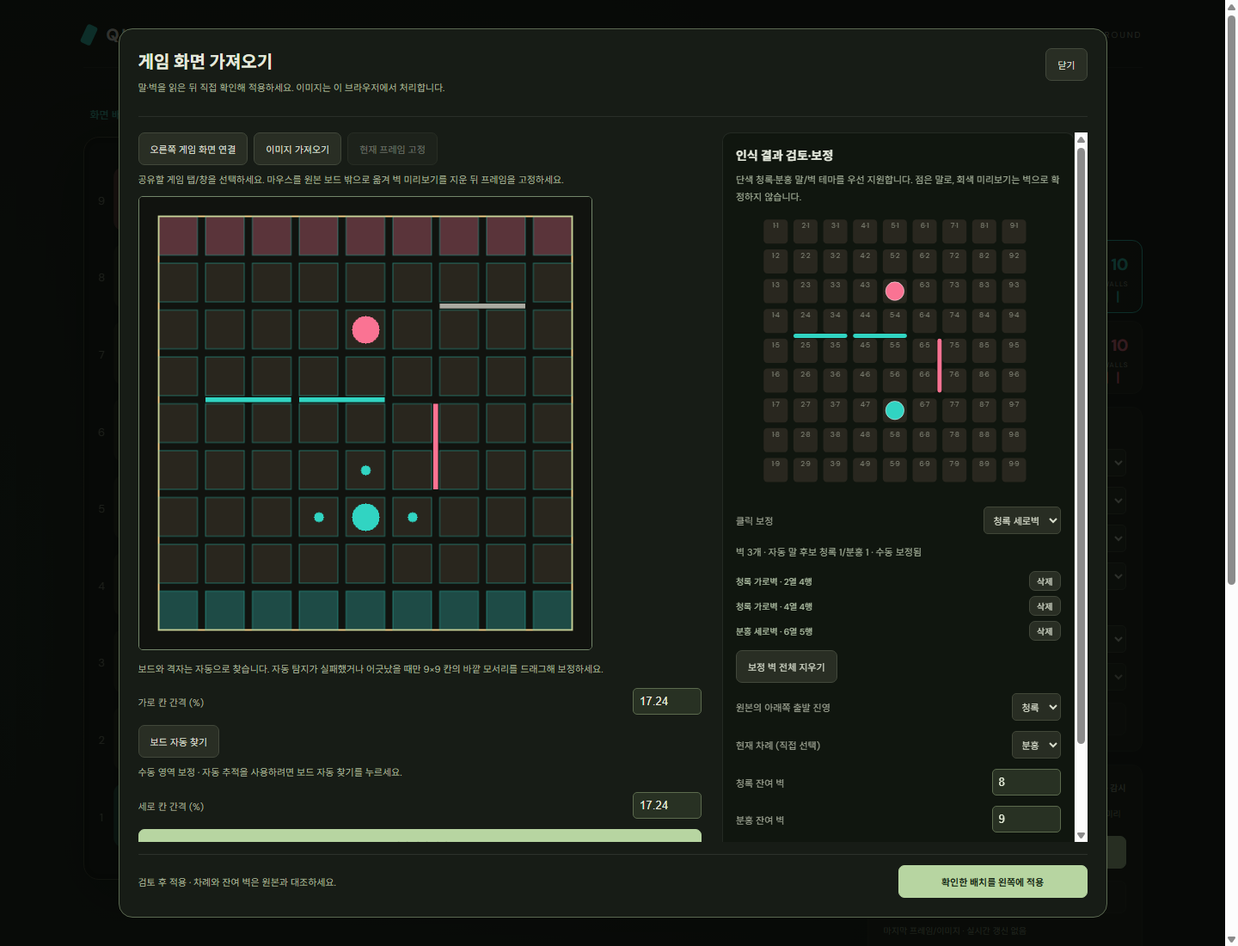
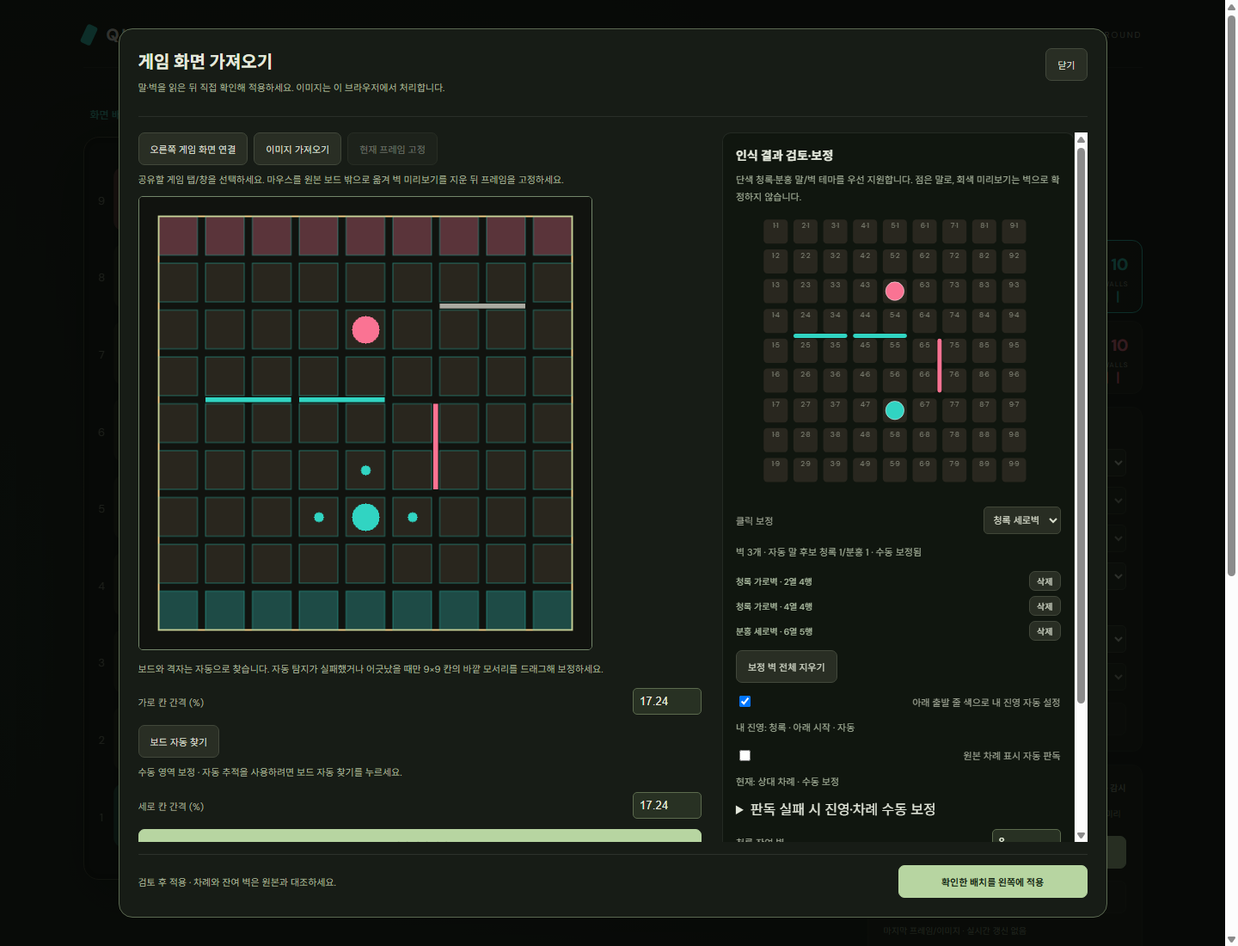
아래 시작 진영과 원본 차례 자동 판독 추가
위·아래 출발 줄 색을 대조해 내 진영과 아래 시작 시점을 자동 설정한다.
원본 차례 문구·활성 카드와 MOVES 수 번호를 읽어 합법 수 추적과 대조한다.
차례가 불확실하거나 근거가 충돌하면 적용·추천을 보류하고 수동 보정을 제공한다.
실제 화면에서 놓칠 수 있는 작은 글씨와 희미한 1px 둥근 카드 테두리를 보강한다.
초기 판독 실패의 문구·카드·수 번호 근거도 진단 JSON에 남긴다.

검증: Node 테스트 130개, 합성 영상 브라우저 시나리오 36개, 웹 빌드 통과.
첨부된 실제 원본 프레임의 재현 검증과 잔여 벽·기보 착수 판독은 후속 과제다.

Changed region(s): [[0.7812, 0.7418, 0.875, 0.8964], [0.5938, 0.7418, 0.75, 0.8964], [0.8125, 0.5255, 0.8438, 0.5564]]

diff --git a/src/screen-capture.js b/src/screen-capture.js
@@ -2,6 +2,7 @@ import {recognizeBoard,gridGeometry} from './screen-recognition.js';
 import {snapshotFromDraft,snapshotIssues,checkedSnapshot} from './observed-state.js';
 import {recoverScreenSequence,StableScreenBoard,boardKey} from './screen-sync.js';
 import {detectBoards,trackedBoard,gridFingerprint,retainedGridMatches} from './board-detection.js';
+import {createSourceTemplates,readSourceContext} from './source-context.js';
 const colors=['#31d4c2','#fa7393'];
 export function mountScreenCapture({onApply,onDirty,getState,onSync,onWatchChange,onUncertain,onRecovered}){
  const panel=document.createElement('section');panel.className='panel';panel.id='screen-panel';panel.hidden=true;
@@ -14,25 +15,43 @@ export function mountScreenCapture({onApply,onDirty,getState,onSync,onWatchChang
  <div class="screen-workspace"><section class="screen-source"><div class="screen-actions"><button id="screen-connect">오른쪽 게임 화면 연결</button><button id="screen-image">이미지 가져오기</button><button id="screen-freeze" disabled>현재 프레임 고정</button><input id="screen-image-file" type="file" accept="image/png,image/jpeg,image/webp" hidden></div><p class="screen-help">공유할 게임 탭/창을 선택하세요. 마우스를 원본 보드 밖으로 옮겨 벽 미리보기를 지운 뒤 프레임을 고정하세요.</p><video id="screen-video" muted autoplay playsinline hidden></video><div id="screen-empty" class="screen-empty">화면을 연결하거나 PNG·JPG·WebP를 가져오세요.</div><canvas id="screen-source-canvas" hidden aria-label="원본 이미지: 9×9 칸의 바깥 모서리를 드래그해 보드 영역 선택"></canvas><p class="screen-help">숫자·글자·테두리를 제외하고, 첫 칸 왼쪽 위부터 마지막 칸 오른쪽 아래까지 드래그하세요.</p><label>칸 사이 간격 (%)<input id="screen-gap" type="number" min="6" max="30" step="1" value="16"></label><button id="screen-recognize" class="primary" disabled>선택 영역 인식</button><p id="screen-message" role="status" aria-live="polite" class="screen-help">먼저 화면이나 이미지를 준비하세요.</p></section>
  <section class="screen-review"><h3>인식 결과 검토·보정</h3><p class="screen-help">단색 청록·분홍 말/벽 테마를 우선 지원합니다. 점은 말로, 회색 미리보기는 벽으로 확정하지 않습니다.</p><div id="screen-review-board" aria-label="인식 배치 보정 보드"></div><label>클릭 보정<select id="screen-brush"><option value="p0">청록 말</option><option value="p1">분홍 말</option><option value="h0">청록 가로벽</option><option value="v0">청록 세로벽</option><option value="h1">분홍 가로벽</option><option value="v1">분홍 세로벽</option><option value="erase">벽 지우기</option></select></label><p id="screen-detected" class="screen-help"></p><div id="screen-wall-list"></div><button id="screen-clear-walls">보정 벽 전체 지우기</button><label>원본의 아래쪽 출발 진영<select id="screen-bottom"><option value="0">청록</option><option value="1">분홍</option></select></label><label>현재 차례 (직접 선택)<select id="screen-turn"><option value="0">청록</option><option value="1">분홍</option></select></label><label>청록 잔여 벽<input id="screen-left-0" type="number" min="0" max="10" value="10"></label><label>분홍 잔여 벽<input id="screen-left-1" type="number" min="0" max="10" value="10"></label><p class="screen-help">차례는 자동으로 읽지 않습니다. 잔여 벽은 설치된 벽 색으로 추정하므로 원본 숫자와 직접 대조하세요.</p><button id="screen-stock-reset">설치 벽으로 잔여 수 재계산</button><ul id="screen-issues" class="screen-issues"></ul><button id="screen-apply" class="primary" disabled>확인한 배치를 왼쪽에 적용</button></section></div>`;
  document.body.append(dialog);
+ const contextControls=document.createElement('div');contextControls.innerHTML='<label><input id="screen-auto-side" type="checkbox" checked> 아래 출발 줄 색으로 내 진영 자동 설정</label><p id="screen-side-result" class="screen-help" role="status">내 진영 판독 대기</p><label><input id="screen-auto-turn" type="checkbox" checked> 원본 차례 표시 자동 판독</label><p id="screen-turn-result" class="screen-help" role="status">게임 카드·차례 표시까지 공유하세요.</p><details id="screen-manual-context"><summary>판독 실패 시 진영·차례 수동 보정</summary></details>';
+ const bottomLabel=document.getElementById('screen-bottom').parentElement,turnLabel=document.getElementById('screen-turn').parentElement;bottomLabel.before(contextControls);document.getElementById('screen-manual-context').append(bottomLabel,turnLabel);
+ const sourceState=document.createElement('p');sourceState.id='screen-source-state';sourceState.className='watch-note';sourceState.textContent='내 진영·현재 차례 판독 대기';panel.append(sourceState);
  const detectionControls=document.createElement('div');detectionControls.innerHTML='<button id="screen-find-board">보드 자동 찾기</button><p id="screen-grid-status" class="screen-help" role="status">화면을 연결하면 보드와 칸 간격을 자동으로 찾습니다.</p><div id="screen-board-candidates"></div><label>세로 칸 간격 (%)<input id="screen-gap-y" type="number" min="6" max="30" step="0.01" value="16"></label>';
  document.getElementById('screen-recognize').before(detectionControls);document.getElementById('screen-gap').step='0.01';
  const $=id=>document.getElementById(id),canvas=$('screen-source-canvas'),ctx=canvas.getContext('2d'),frame=document.createElement('canvas'),video=$('screen-video');
  canvas.nextElementSibling.textContent='보드와 격자는 자동으로 찾습니다. 자동 탐지가 실패했거나 어긋났을 때만 9×9 칸의 바깥 모서리를 드래그해 보정하세요.';
  $('screen-gap').parentElement.firstChild.textContent='가로 칸 간격 (%)';
+ $('screen-stock-reset').previousElementSibling.textContent='차례는 원본 문구·활성 카드와 수 추적으로 대조합니다. 잔여 벽은 설치된 벽 색으로 추정하므로 원본 숫자와 확인하세요.';
  const footer=document.createElement('div');footer.className='screen-dialog-foot';const footerNote=document.createElement('span');footerNote.textContent='검토 후 적용 · 차례와 잔여 벽은 원본과 대조하세요.';footer.append(footerNote,$('screen-apply'));dialog.append(footer);
  let stream=null,hasFrame=false,rect=null,drag=null,draft=null,manualStock=[false,false],visible=false,token=0,disposed=false,edited=false;
  let timer=null,calibration=null,uncertain=false,lastVideoTime=-1,lastFrameAt=0;const stable=new StableScreenBoard(3),live=document.createElement('canvas');
  let automaticGrid=false,lastGridCheck=0;
  let lastDraft=null,frameKey=null,frameCount=0;const observedFrames=[],diagnostics=[];
+ let templates=null,sourceMeta=null,lastContext=null;
+ function context(pixels,area=rect,gap=gaps()){templates??=createSourceTemplates(document);return readSourceContext(pixels,area,{gap,templates});}
+ function sourceErrors(){const issues=[],winner=draft?snapshotFromDraft(draft,{bottom:Number($('screen-bottom').value),turn:0}).winner:null;if($('screen-auto-side').checked&&sourceMeta?.bottom==null)issues.push('아래 출발 줄 색을 읽지 못했습니다. 전체 보드를 공유하거나 수동 보정하세요.');if($('screen-auto-turn').checked&&sourceMeta?.relative==null&&winner===null)issues.push(sourceMeta?.turnReason??'원본 차례를 읽지 못했습니다. 차례 표시까지 공유하거나 수동 보정하세요.');return issues;}
+ function updateContext(){
+  if(hasFrame&&rect){sourceMeta=context(frame.getContext('2d').getImageData(0,0,frame.width,frame.height));lastContext=sourceMeta;if(draft)lastDraft=draft;}
+  const autoSide=$('screen-auto-side').checked,autoTurn=$('screen-auto-turn').checked;
+  if(autoSide&&sourceMeta?.bottom!=null)$('screen-bottom').value=String(sourceMeta.bottom);
+  const bottom=Number($('screen-bottom').value);
+  if(autoTurn&&sourceMeta?.relative!=null)$('screen-turn').value=String(sourceMeta.relative==='self'?bottom:1-bottom);
+  $('screen-bottom').disabled=autoSide;$('screen-turn').disabled=autoTurn;
+  $('screen-side-result').textContent=autoSide?sourceMeta?.bottom!=null?`내 진영: ${sourceMeta.bottom===0?'청록':'분홍'} · 아래 시작 · 자동`:'내 진영: 판독 대기 · 아래 출발 줄을 확인하세요.':`내 진영: ${bottom===0?'청록':'분홍'} · 아래 시작 · 수동 보정`;
+  $('screen-turn-result').textContent=autoTurn?sourceMeta?.turnReason??'차례 표시 판독 대기':`현재: ${Number($('screen-turn').value)===bottom?'내':'상대'} 차례 · 수동 보정`;
+  if(draft&&sourceErrors().length)recordDiagnostic(`초기 진영·차례 판독 보류 · ${sourceErrors().join(' ')}`);
+ }
  function clearFrames(){observedFrames.length=0;frameKey=null;frameCount=0;}
- function recordDiagnostic(reason){const before=getState?.(),entry={time:new Date().toISOString(),reason,grid:calibration?{rect:calibration.rect,gap:calibration.gap}:null,lastGood:before??null,observed:lastDraft?{p:lastDraft.p,walls:lastDraft.walls,rawWallCount:lastDraft.rawWallCount,wallIssues:lastDraft.wallIssues,ownerCounts:[0,1].map(t=>lastDraft.walls.filter(w=>w.owner===t).length)}:null};if(diagnostics.at(-1)?.reason===reason&&JSON.stringify(diagnostics.at(-1)?.observed)===JSON.stringify(entry.observed))return;diagnostics.push(entry);if(diagnostics.length>40)diagnostics.shift();}
+ function recordDiagnostic(reason){const before=getState?.(),entry={time:new Date().toISOString(),reason,context:lastContext,grid:calibration?{rect:calibration.rect,gap:calibration.gap}:null,lastGood:before??null,observed:lastDraft?{p:lastDraft.p,walls:lastDraft.walls,rawWallCount:lastDraft.rawWallCount,wallIssues:lastDraft.wallIssues,ownerCounts:[0,1].map(t=>lastDraft.walls.filter(w=>w.owner===t).length)}:null};if(diagnostics.at(-1)?.reason===reason&&JSON.stringify(diagnostics.at(-1)?.observed)===JSON.stringify(entry.observed))return;diagnostics.push(entry);if(diagnostics.length>40)diagnostics.shift();}
  function observedSnapshot(d,bottom,turn){lastDraft=d;if(d.wallIssues?.length)throw Error(`벽 후보 충돌 · ${d.wallIssues.join(' ')}`);const s=snapshotFromDraft(d,{bottom,turn});const counts=[0,1].map(t=>d.walls.filter(w=>w.owner===t).length);if(counts.some(n=>n>10))throw Error(`벽 과다 검출 · 청록 ${counts[0]}개 / 분홍 ${counts[1]}개 (각 최대 10개)`);return checkedSnapshot(s);}
  function recognizeLive(pixels){const before=getState?.(),bottom=calibration.bottom,knownWalls=(before?.walls??[]).map(w=>({...w,x:bottom===1?7-w.x:w.x,y:bottom===1?7-w.y:w.y}));return recognizeBoard(pixels,calibration.rect,{gap:calibration.gap,knownWalls});}
  const gaps=()=>({x:Number($('screen-gap').value)/100,y:Number($('screen-gap-y').value)/100});
  function boardCandidates(pixels){return detectBoards(pixels).filter(candidate=>recognizeBoard(pixels,candidate.rect,{gap:candidate.gap}).p.every(Boolean));}
  function selectBoard(candidate,pixels){
   dirty();rect={...candidate.rect};automaticGrid=true;$('screen-gap').value=(candidate.gap.x*100).toFixed(2);$('screen-gap-y').value=(candidate.gap.y*100).toFixed(2);
-  draft=recognizeBoard(pixels,rect,{gap:gaps()});manualStock=[false,false];edited=false;stock();review();redraw();controls();$('screen-grid-status').textContent=`격자 자동 정렬 완료 · ${candidate.cells}/81칸 확인`;
+  draft=recognizeBoard(pixels,rect,{gap:gaps()});manualStock=[false,false];edited=false;updateContext();stock();review();redraw();controls();$('screen-grid-status').textContent=`격자 자동 정렬 완료 · ${candidate.cells}/81칸 확인`;
   message('보드와 가로·세로 간격을 자동으로 찾았습니다. 말·벽·진영·차례를 확인하고 적용하세요.');
  }
  function findBoard(){
@@ -67,18 +86,26 @@ export function mountScreenCapture({onApply,onDirty,getState,onSync,onWatchChang
    if(calibration.auto&&(Date.now()-lastGridCheck>=1000||w!==calibration.width||h!==calibration.height)){refreshGrid(pixels,w,h);gridChecked=true;}
    const detected=recognizeLive(pixels);
    const before=getState?.();if(!before){pause('배치를 다시 적용하세요.');return;}
-   const target=observedSnapshot(detected,calibration.bottom,before.turn),key=boardKey(target);
+   const target=observedSnapshot(detected,calibration.bottom,before.turn);let sourceTurn,expectedPlies;
+   if(calibration.autoSide||calibration.autoTurn){
+    lastContext=context(pixels,calibration.rect,calibration.gap);
+    if(calibration.autoSide&&lastContext.bottom!==calibration.bottom)throw Error('내 진영 판독 불일치 · 출발 줄 색 변경 또는 가림을 확인하고 현재 화면 재동기화를 이용하세요.');
+    if(calibration.autoTurn&&target.winner===null){if(lastContext.relative===null)throw Error(lastContext.turnReason);sourceTurn=lastContext.relative==='self'?calibration.bottom:1-calibration.bottom;target.turn=sourceTurn;}
+    if(calibration.autoTurn&&lastContext.moveCount!==null&&calibration.sourcePly!==null){expectedPlies=lastContext.moveCount-calibration.sourcePly;if(expectedPlies<0||expectedPlies>6)throw Error('원본 수 번호가 추적 범위와 다릅니다. 되돌리기·새 게임·누락 진행을 재동기화하세요.');}
+    $('screen-source-state').textContent=`내 진영: ${calibration.bottom===0?'청록':'분홍'} · 아래 시작 · 현재: ${sourceTurn===undefined?'수 추적 대조 중':sourceTurn===calibration.bottom?'내 차례':'상대 차례'}${lastContext.moveCount===null?'':` · 원본 ${lastContext.moveCount}수`}`;
+   }
+   const key=boardKey(target)+':'+(sourceTurn??'');
    if(frameKey===key)frameCount++;else{frameKey=key;frameCount=1;}
    if(frameCount===2){observedFrames.push({time:Date.now(),board:target});while(observedFrames.length>24||observedFrames[0]?.time<Date.now()-6000)observedFrames.shift();}
-   if(!stable.observe(target)){if(boardKey(before)!==boardKey(target)&&!uncertain){uncertain=true;onUncertain?.();}autoStatus('배치 변화 확인 중 · 동일한 화면 3회 대기');return;}
+   if(!stable.observe(target,sourceTurn)){if((boardKey(before)!==boardKey(target)||sourceTurn!==undefined&&sourceTurn!==before.turn)&&!uncertain){uncertain=true;onUncertain?.();}autoStatus('배치·차례 변화 확인 중 · 동일한 화면 3회 대기');return;}
    // A whole-board translation by one cell can look like two legal pawn moves.
    // Confirm geometry on this very frame before committing any changed board.
    if(calibration.auto&&!gridChecked&&boardKey(before)!==boardKey(target)){
     const moved=refreshGrid(pixels,w,h),verified=observedSnapshot(recognizeLive(pixels),calibration.bottom,before.turn);
     if(moved||boardKey(verified)!==boardKey(target)){stable.reset();autoStatus('격자 재정렬 · 배치 안정화 확인 중');return;}
    }
-   const actions=recoverScreenSequence(before,target,observedFrames.map(f=>f.board));
-   if(actions.length){if(onSync?.(actions,before)===false)throw Error('왼쪽 배치가 변경됐습니다. 다시 확인하세요.');recordDiagnostic(`${actions.length}수 합법 진행 복원`);clearFrames();uncertain=false;autoStatus(`${actions.length}수 자동 반영 · ${new Date().toLocaleTimeString()}`);}
+   const actions=recoverScreenSequence(before,target,observedFrames.map(f=>f.board),{expectedTurn:sourceTurn,expectedPlies});
+   if(actions.length){if(onSync?.(actions,before)===false)throw Error('왼쪽 배치가 변경됐습니다. 다시 확인하세요.');if(calibration.autoTurn)calibration.sourcePly=lastContext?.moveCount??null;recordDiagnostic(`${actions.length}수 합법 진행 복원`);clearFrames();uncertain=false;autoStatus(`${actions.length}수 자동 반영 · ${new Date().toLocaleTimeString()}`);}
    else {if(uncertain){uncertain=false;onRecovered?.();}autoStatus('자동 감시 중 · 원본과 일치');}
   }catch(error){reject(error.message);}
  }
@@ -121,7 +148,7 @@ export function mountScreenCapture({onApply,onDirty,getState,onSync,onWatchChang
  function stock(){if(!draft)return;for(const t of [0,1])if(!manualStock[t])$(`screen-left-${t}`).value=String(10-draft.walls.filter(w=>w.owner===t).length);}
  function readSnapshot(){return snapshotFromDraft(draft,{bottom:Number($('screen-bottom').value),turn:Number($('screen-turn').value),left:[0,1].map(t=>$(`screen-left-${t}`).value.trim()===''?NaN:Number($(`screen-left-${t}`).value))});}
  function review(){
-  if(!draft)return;const issues=[...snapshotIssues(readSnapshot()),...(!edited?draft.wallIssues??[]:[])];$('screen-issues').replaceChildren(...issues.map(text=>{const li=document.createElement('li');li.textContent=text;return li;}));$('screen-apply').disabled=issues.length>0;
+  if(!draft)return;const issues=[...snapshotIssues(readSnapshot()),...(!edited?draft.wallIssues??[]:[]),...sourceErrors()];$('screen-issues').replaceChildren(...issues.map(text=>{const li=document.createElement('li');li.textContent=text;return li;}));$('screen-apply').disabled=issues.length>0;
   let svg='<svg viewBox="0 0 400 400" role="img" aria-label="원본 방향의 배치 보정: 클릭해 말 또는 벽 지정">';
   for(let y=0;y<9;y++)for(let x=0;x<9;x++)svg+=`<rect x="${10+x*42}" y="${10+y*42}" width="34" height="34" rx="5" fill="#29271f"/><text x="${27+x*42}" y="${22+y*42}" font-size="7">${x+1}·${y+1}</text>`;
   for(const w of draft.walls)svg+=`<rect x="${10+w.x*42+(w.o==='v'?35:0)}" y="${10+w.y*42+(w.o==='h'?35:0)}" width="${w.o==='h'?76:6}" height="${w.o==='v'?76:6}" rx="3" fill="${colors[w.owner]}"/>`;
@@ -137,14 +164,15 @@ export function mountScreenCapture({onApply,onDirty,getState,onSync,onWatchChang
   }else{const w={type:'wall',o:brush[0],owner:Number(brush[1]),x:Math.max(0,Math.min(7,Math.round((x-48)/42))),y:Math.max(0,Math.min(7,Math.round((y-48)/42)))},old=draft.walls.findIndex(a=>a.x===w.x&&a.y===w.y&&a.o===w.o);if(old>=0)draft.walls[old]=w;else draft.walls.push(w);}
   edited=true;stock();onDirty();review();
  };
- $('screen-recognize').onclick=()=>{try{if(!rect||rect.width<180||rect.height<180)throw Error('보드 영역을 180×180 픽셀 이상으로 선택하세요.');draft=recognizeBoard(frame.getContext('2d').getImageData(0,0,frame.width,frame.height),rect,{gap:gaps()});manualStock=[false,false];edited=false;stock();review();onDirty();message('자동 판독을 마쳤습니다. 말·벽·출발 방향·차례·잔여 벽을 검토하고 적용하세요.');}catch(error){dirty();message(error.message,true);}};
+ $('screen-recognize').onclick=()=>{try{if(!rect||rect.width<180||rect.height<180)throw Error('보드 영역을 180×180 픽셀 이상으로 선택하세요.');draft=recognizeBoard(frame.getContext('2d').getImageData(0,0,frame.width,frame.height),rect,{gap:gaps()});manualStock=[false,false];edited=false;updateContext();stock();review();onDirty();message('자동 판독을 마쳤습니다. 말·벽·출발 방향·차례·잔여 벽을 검토하고 적용하세요.');}catch(error){dirty();message(error.message,true);}};
  $('screen-find-board').onclick=findBoard;
  for(const id of ['screen-gap','screen-gap-y'])$(id).oninput=()=>{automaticGrid=false;dirty();redraw();controls();};
- for(const id of ['screen-bottom','screen-turn'])$(id).onchange=()=>{onDirty();review();};
+ for(const id of ['screen-bottom','screen-turn'])$(id).onchange=()=>{$(id==='screen-bottom'?'screen-auto-side':'screen-auto-turn').checked=false;updateContext();onDirty();review();};
+ for(const id of ['screen-auto-side','screen-auto-turn'])$(id).onchange=()=>{updateContext();onDirty();review();};
  for(const t of [0,1])$(`screen-left-${t}`).oninput=()=>{manualStock[t]=true;onDirty();review();};
  $('screen-stock-reset').onclick=()=>{manualStock=[false,false];stock();onDirty();review();};
  $('screen-clear-walls').onclick=()=>{if(draft){draft.walls=[];edited=true;stock();onDirty();review();}};
- $('screen-apply').onclick=()=>{try{if(!edited&&draft?.wallIssues?.length)throw Error(draft.wallIssues.join(' '));const snapshot=checkedSnapshot(readSnapshot());pause();onApply(snapshot,Number($('screen-bottom').value));calibration={rect:{...rect},gap:gaps(),auto:automaticGrid,bottom:Number($('screen-bottom').value),width:frame.width,height:frame.height,fingerprint:gridFingerprint(frame.getContext('2d').getImageData(0,0,frame.width,frame.height),{rect,gap:gaps()})};recordDiagnostic('사용자가 현재 배치·차례를 확인해 기준 상태 적용');controls();dialog.close();message('확인한 배치를 적용했습니다. 공유 중이면 자동 감시 시작을 눌러 연동하세요.');}catch(error){message(error.message,true);review();}};
+ $('screen-apply').onclick=()=>{try{if(sourceErrors().length)throw Error(sourceErrors().join(' '));if(!edited&&draft?.wallIssues?.length)throw Error(draft.wallIssues.join(' '));const snapshot=checkedSnapshot(readSnapshot());pause();onApply(snapshot,Number($('screen-bottom').value));calibration={rect:{...rect},gap:gaps(),auto:automaticGrid,autoSide:$('screen-auto-side').checked,autoTurn:$('screen-auto-turn').checked,sourcePly:$('screen-auto-turn').checked?sourceMeta?.moveCount??null:null,bottom:Number($('screen-bottom').value),width:frame.width,height:frame.height,fingerprint:gridFingerprint(frame.getContext('2d').getImageData(0,0,frame.width,frame.height),{rect,gap:gaps()})};lastContext=sourceMeta;$('screen-source-state').textContent=`내 진영: ${calibration.bottom===0?'청록':'분홍'} · 아래 시작 · ${snapshot.turn===calibration.bottom?'내':'상대'} 차례${calibration.autoTurn?' · 자동':' · 수동 보정'}`;recordDiagnostic('사용자가 현재 배치·차례를 확인해 기준 상태 적용');controls();dialog.close();message('확인한 배치를 적용했습니다. 공유 중이면 자동 감시 시작을 눌러 연동하세요.');}catch(error){message(error.message,true);review();}};
  $('screen-auto-start').onclick=()=>{if(!timer)start();};$('screen-auto-pause').onclick=()=>pause();$('screen-auto-hint').onchange=()=>{stable.reset();uncertain=true;onWatchChange?.(!!timer);};
  // Editing an approved draft invalidates its calibration before it can be reused.
  dialog.addEventListener('input',e=>{if(e.target.id!=='screen-image-file'){invalidate();controls();}});
@@ -154,6 +182,6 @@ export function mountScreenCapture({onApply,onDirty,getState,onSync,onWatchChang
  $('screen-open').onclick=openDialog;$('screen-close').onclick=()=>dialog.close();$('screen-connect').onclick=()=>connect();$('screen-freeze').onclick=()=>{try{freeze();}catch(e){message(e.message,true);}};
  $('screen-resync').onclick=()=>{const wasActive=!!timer;openDialog();if(!wasActive&&stream)try{freeze();}catch(error){message(error.message,true);}message('현재 배치와 차례를 확인해 새 기준으로 적용하세요. 복원하지 못한 중간 수는 만들지 않습니다.');};
  $('screen-diagnostic').onclick=()=>{const url=URL.createObjectURL(new Blob([JSON.stringify({version:1,events:diagnostics,buffer:observedFrames,lastGood:getState?.()??null},null,2)],{type:'application/json'})),a=document.createElement('a');a.href=url;a.download='quoridor-screen-diagnostic.json';a.click();URL.revokeObjectURL(url);};
- $('screen-disconnect').onclick=()=>disconnect();$('screen-image').onclick=()=>$('screen-image-file').click();$('screen-image-file').onchange=e=>{imageFile(e.target.files[0]);e.target.value='';};controls();
+ $('screen-disconnect').onclick=()=>disconnect();$('screen-image').onclick=()=>$('screen-image-file').click();$('screen-image-file').onchange=e=>{imageFile(e.target.files[0]);e.target.value='';};updateContext();controls();
  return {get active(){return !!timer;},get autoHint(){return $('screen-auto-hint').checked;},open:openDialog,setBottom(bottom){invalidate();if([0,1].includes(bottom)){$('screen-bottom').value=String(bottom);review();}},setVisible(next){if(visible===next)return;visible=next;panel.hidden=!next;if(!next){if(dialog.open)dialog.close();disconnect(false);}},dispose(){disposed=true;disconnect(false);dialog.remove();panel.remove();}};
 }

diff --git a/src/source-context.js b/src/source-context.js
@@ -1,0 +1,79 @@
+import {gridGeometry,pieceColor} from './screen-recognition.js';
+const names=['청록','분홍'];
+export function readStartingColor(image,rect,gap=.16){
+ const grid=gridGeometry(rect,gap);
+ function row(y){const votes=[0,0];for(let x=0;x<9;x++)for(const [u,v]of[[.2,.2],[.8,.2],[.2,.8],[.8,.8]]){const c=grid.cell(x,y),px=Math.floor(c.x+c.width*u),py=Math.floor(c.y+c.height*v),i=(py*image.width+px)*4,r=image.data[i],g=image.data[i+1],b=image.data[i+2];if(g-r>10&&b-r>7&&g>b*.8)votes[0]++;else if(r-g>12&&r-b>5)votes[1]++;}const t=votes[0]>votes[1]?0:1;return votes[t]>=24&&votes[1-t]<=4?t:null;}
+ const bottom=row(8),top=row(0);return bottom!==null&&top===1-bottom?{bottom,reason:`아래 출발 줄 ${names[bottom]} · 위 출발 줄 ${names[top]}`}:{bottom:null,reason:'위·아래 출발 줄의 색을 확정하지 못했습니다.'};
+}
+export function normalizeGlyph(pixels,width,height,box,columns=10){
+ const out=new Float32Array(columns*14);
+ for(let y=0;y<14;y++)for(let x=0;x<columns;x++){let sum=0;for(const dy of [.25,.75])for(const dx of [.25,.75]){const px=Math.min(width-1,Math.floor(box.x+(x+dx)*box.width/columns)),py=Math.min(height-1,Math.floor(box.y+(y+dy)*box.height/14));sum+=pixels[py*width+px]?1:0;}out[y*columns+x]=sum/4;}return out;
+}
+export function createSourceTemplates(document){
+ const canvas=document.createElement('canvas');canvas.width=128;canvas.height=40;const ctx=canvas.getContext('2d',{willReadFrequently:true}),templates={};
+ for(const font of ['Arial','Segoe UI','Verdana'])for(const size of [7,8,9,10,11,12,14,16])for(const weight of [400,600])for(const char of [...'ABCDEFGHIJKLMNOPQRSTUVWXYZ0123456789','MOVES','YOU','OPPONENT'])for(const spacing of char.length>1?[0,1,2]:[0]){
+  ctx.clearRect(0,0,128,40);ctx.font=`${weight} ${size}px "${font}"`;ctx.letterSpacing=`${spacing}px`;ctx.fillStyle='#fff';ctx.fillText(char,3,25);const rgba=ctx.getImageData(0,0,128,40).data,mask=new Uint8Array(128*40);let x0=128,y0=40,x1=0,y1=0;
+  for(let y=0;y<40;y++)for(let x=0;x<128;x++)if(rgba[(y*128+x)*4+3]>=100){mask[y*128+x]=1;x0=Math.min(x0,x);x1=Math.max(x1,x);y0=Math.min(y0,y);y1=Math.max(y1,y);}
+  (templates[char]??=[]).push(normalizeGlyph(mask,128,40,{x:x0,y:y0,width:x1-x0+1,height:y1-y0+1},char.length>1?char.length*10:10));
+ }return templates;
+}
+const textPixel=(r,g,b)=>Math.max(r,g,b)>90&&Math.max(r,g,b)-Math.min(r,g,b)<45||r>65&&g>45&&r>g*.85&&g>r*.5&&b<g*.9;
+function textRows(image,rect){
+ const {width:w,height:h,data}=image,step=rect.width/9,x0=Math.max(0,Math.floor(rect.x+rect.width+step*.12)),x1=Math.min(w,Math.ceil(rect.x+rect.width+rect.width*.85)),y0=Math.max(0,Math.floor(rect.y-step)),y1=Math.min(h,Math.ceil(rect.y+rect.height*.8));
+ if(x1-x0<step||y1<=y0)return [];
+ const width=x1-x0,height=y1-y0,mask=new Uint8Array(width*height),seen=new Uint8Array(mask.length),glyphs=[];
+ for(let y=0;y<height;y++)for(let x=0;x<width;x++){const i=((y+y0)*w+x+x0)*4;mask[y*width+x]=data[i+3]>127&&textPixel(data[i],data[i+1],data[i+2])?1:0;}
+ for(let i=0;i<mask.length;i++){if(!mask[i]||seen[i])continue;const q=[i];seen[i]=1;let left=i%width,right=left,top=i/width|0,bottom=top;
+  for(const n of q){const x=n%width,y=n/width|0;left=Math.min(left,x);right=Math.max(right,x);top=Math.min(top,y);bottom=Math.max(bottom,y);for(const [dx,dy]of[[-1,0],[1,0],[0,-1],[0,1],[-1,-1],[1,1],[-1,1],[1,-1]]){const xx=x+dx,yy=y+dy,j=yy*width+xx;if(xx>=0&&xx<width&&yy>=0&&yy<height&&mask[j]&&!seen[j]){seen[j]=1;q.push(j);}}}
+  const gw=right-left+1,gh=bottom-top+1;if(gh<4||gh>Math.min(28,step*.55)||gw>gh*12||q.length<4)continue;
+  glyphs.push({x:left+x0,y:top+y0,width:gw,height:gh,shape:normalizeGlyph(mask,width,height,{x:left,y:top,width:gw,height:gh}),cache:{}});
+ }
+ const rows=[];for(const glyph of glyphs.sort((a,b)=>a.y-b.y)){const center=glyph.y+glyph.height/2;let row=rows.find(r=>Math.abs(r.center-center)<Math.max(2,glyph.height*.28));if(!row)rows.push(row={center,glyphs:[]});row.glyphs.push(glyph);}return rows.map(r=>r.glyphs.sort((a,b)=>a.x-b.x));
+}
+function cost(glyph,char,templates){
+ if(glyph.cache[char]!==undefined)return glyph.cache[char];let best=1;
+ for(const ref of templates[char]??[]){let sum=0;for(let i=0;i<140;i++)sum+=Math.abs(ref[i]-glyph.shape[i]);best=Math.min(best,sum/140);}return glyph.cache[char]=best;
+}
+export function matchSourcePhrases(rows,templates,phrases){
+ const matches=[];
+ for(const row of rows)for(const text of phrases)for(let start=0;start+text.length<=row.length;start++){
+  const part=row.slice(start,start+text.length),height=part.reduce((n,g)=>n+g.height,0)/part.length;
+  if(part.some((g,i)=>g.width>g.height*1.6||Math.abs(g.height-height)>height*.35||i&&g.x-part[i-1].x-part[i-1].width>height*2))continue;
+  const scores=part.map((g,i)=>cost(g,text[i],templates)),score=scores.reduce((a,b)=>a+b,0)/scores.length;
+  if(score<=.19&&Math.max(...scores)<.38)matches.push({text,score,x:part[0].x,y:part[0].y,width:part.at(-1).x+part.at(-1).width-part[0].x,height,glyphs:part});
+ }return matches.sort((a,b)=>a.score-b.score);
+}
+function wordHeaders(image,rows,templates,word){
+ const matches=[];
+ for(const row of rows){const groups=[];for(const g of row){const group=groups.at(-1),last=group?.at(-1);if(last&&g.x-last.x-last.width<g.height*.8)group.push(g);else groups.push([g]);}
+  for(const group of groups){const x=group[0].x,y=Math.min(...group.map(g=>g.y)),width=group.at(-1).x+group.at(-1).width-x,height=Math.max(...group.map(g=>g.y+g.height))-y;if(width/height<word.length*.4||width/height>word.length*1.35)continue;
+   const mask=new Uint8Array(width*height);for(let yy=0;yy<height;yy++)for(let xx=0;xx<width;xx++){const i=((y+yy)*image.width+x+xx)*4;mask[yy*width+xx]=textPixel(image.data[i],image.data[i+1],image.data[i+2])?1:0;}
+   const shape=normalizeGlyph(mask,width,height,{x:0,y:0,width,height},word.length*10);let score=1;for(const ref of templates[word]??[]){let sum=0;for(let i=0;i<shape.length;i++)sum+=Math.abs(shape[i]-ref[i]);score=Math.min(score,sum/shape.length);}
+   if(score<.14)matches.push({text:word,x,y,width,height,score,glyphs:group});
+  }
+ }return matches.sort((a,b)=>a.score-b.score);
+}
+function activeCardRoles(image,rect,rows,templates,diagnostic=[]){
+ const step=rect.width/9,x0=Math.max(0,Math.floor(rect.x+rect.width+step*.12)),x1=Math.min(image.width,Math.ceil(rect.x+rect.width*1.85)),y0=Math.max(0,Math.floor(rect.y-step)),y1=Math.min(image.height,Math.ceil(rect.y+step*3.5)),w=x1-x0,h=y1-y0;if(w<1||h<1)return [];
+ const mask=new Uint8Array(w*h),seen=new Uint8Array(w*h),roles=[];
+ for(let y=0;y<h;y++)for(let x=0;x<w;x++){const i=((y+y0)*image.width+x+x0)*4,r=image.data[i],g=image.data[i+1],b=image.data[i+2];mask[y*w+x]=pieceColor(r,g,b)>=0||g>=50&&g-r>=18&&b-r>=12||r>=70&&r-g>=25&&r-b>=5?1:0;}
+ const labels=['YOU','OPPONENT'].flatMap(word=>wordHeaders(image,rows,templates,word));
+ for(let i=0;i<mask.length;i++){if(!mask[i]||seen[i])continue;const q=[i];seen[i]=1;let left=i%w,right=left,top=i/w|0,bottom=top;
+  for(const n of q){const x=n%w,y=n/w|0;left=Math.min(left,x);right=Math.max(right,x);top=Math.min(top,y);bottom=Math.max(bottom,y);for(const [dx,dy]of[[-1,0],[1,0],[0,-1],[0,1],[-1,-1],[1,1],[-1,1],[1,-1],[-2,0],[2,0],[0,-2],[0,2]]){const xx=x+dx,yy=y+dy,j=yy*w+xx;if(xx>=0&&xx<w&&yy>=0&&yy<h&&mask[j]&&!seen[j]){seen[j]=1;q.push(j);}}}
+  const cw=right-left+1,ch=bottom-top+1;if(cw<step*2.2||ch<step*.5||ch>step*1.9)continue;
+  function edge(horizontal,edge){let hits=0;for(let n=0;n<20;n++){const a=Math.round((horizontal?left:top)+(n/19*.7+.15)*(horizontal?cw:ch));let hit=false;for(let d=-2;d<=2;d++){const x=horizontal?a:edge+d,y=horizontal?edge+d:a;if(x>=0&&x<w&&y>=0&&y<h&&mask[y*w+x])hit=true;}if(hit)hits++;}return hits>=14;}
+  const edges=[edge(true,top),edge(true,bottom),edge(false,left),edge(false,right)],inside=labels.filter(l=>l.x>=left+x0&&l.x+l.width<=right+x0&&l.y>=top+y0&&l.y+l.height<=bottom+y0),kinds=new Set(inside.map(l=>l.text==='YOU'?'self':'opponent'));
+  diagnostic.push({x:left+x0,y:top+y0,width:cw,height:ch,edges,labels:inside.map(l=>({text:l.text,score:l.score}))});
+  if(edges.some(e=>!e))continue;
+  if(kinds.size===1)roles.push([...kinds][0]);
+ }return roles;
+}
+export function readSourceContext(image,rect,{gap=.16,templates={}}={}){
+ const side=readStartingColor(image,rect,gap),rows=textRows(image,rect),matches=matchSourcePhrases(rows,templates,['YOURTURN','OPPONENTSTURN']),cardCandidates=[],cards=activeCardRoles(image,rect,rows,templates,cardCandidates),roles=new Set([...matches.map(m=>m.text==='YOURTURN'?'self':'opponent'),...cards]);
+ const relative=roles.size===1?[...roles][0]:null;
+ const headers=wordHeaders(image,rows,templates,'MOVES');let moveCount=null,moveEvidence=[];
+ if(headers.length){const header=headers[0],row=rows.find(r=>r.some(g=>g===header.glyphs[0])),digits=row.filter(g=>g.x>header.x+header.width+header.height&&g.x<rect.x+rect.width*1.85);
+  if(digits.length>0&&digits.length<=3){const values=digits.map(g=>[...'0123456789'].map(c=>({c,score:cost(g,c,templates)})).sort((a,b)=>a.score-b.score));moveEvidence=values.map(v=>v.slice(0,2));if(values.every(v=>v[0].score<.16&&v[1].score-v[0].score>.015))moveCount=Number(values.map(v=>v[0].c).join(''));}
+ }
+ return {...side,relative,turn:relative!==null&&side.bottom!==null?(relative==='self'?side.bottom:1-side.bottom):null,moveCount,moveEvidence,diagnostic:{textRowCount:rows.length,cardCandidates,moveHeaders:headers.map(({x,y,score})=>({x,y,score}))},turnReason:roles.size>1?'차례 문구·활성 카드가 서로 충돌합니다.':relative===null?'차례 표시 판독 실패 · 카드가 포함된 공유인지 확인하고, 글씨가 작거나 테두리가 희미하면 확대 또는 수동 보정하세요.':`${relative==='self'?'내':'상대'} 차례 · ${matches.length?'원본 문구':'활성 카드'} 판독`,evidence:[...matches.map(({text,score,x,y})=>({text,score,x,y})),...cards.map(role=>({card:role}))]};
+}

diff --git a/src/app.js b/src/app.js
@@ -81,6 +81,7 @@ function render(){
   $('#history').innerHTML=records.length?records.map((a,i)=>`<div class="${i===records.length-1?'latest':''}"><span>${String(i+1).padStart(2,'0')}</span><i style="background:${colors[(baseState?.turn??0)^(i%2)]}"></i><b>${notation(a)}</b><small>${a.type==='wall'?'벽 설치':'말 이동'}</small></div>`).join(''):baseState?'<p class="muted">가져온 시작 배치 · 이전 기보는 없습니다.</p>':'<p class="muted">첫 수를 기다리고 있습니다.</p>';
   $('#history').scrollTop=1e6;$('#count').textContent=`${records.length} 수`;$('#hint').disabled=busy||watcher.running||!!outcome;$('#undo').disabled=!past.length;
   $('#reset').disabled=screen;
+  $('#side').disabled=screen;$('#start-position').disabled=screen;
   if(screen)$('#undo').disabled=true;
   if(baseState)$('#count').textContent=`가져온 배치 이후 ${records.length}수`;
   if(baseState&&screenRebased){$('#count').textContent=`재동기화 이후 ${records.length}수 · 중간 기보 누락`;if(!records.length)$('#history').innerHTML='<p class="muted">현재 화면에서 재동기화했습니다. 복원하지 못한 중간 기보는 만들지 않습니다.</p>';}
@@ -159,6 +160,7 @@ function restore(data){
   observedBottom=baseState&&[0,1].includes(data.sourceBottom)?data.sourceBottom:null;screenCapture?.setBottom(observedBottom);
   selectValue('#mode',data.mode);selectValue('#side',data.side);selectValue('#time',data.time);selectValue('#cores',data.cores);selectValue('#play-engine',data.engine??'atlas5');
   selectValue('#start-position',data.startPosition??'top');
+  if($('#mode').value==='screen'&&observedBottom!==null){$('#side').value=String(observedBottom);$('#start-position').value='bottom';}
   if($('#play-engine').value==='atlas3')$('#cores').value='1';$('#cores').disabled=$('#play-engine').value==='atlas3';
   for(const t of [0,1]){const p=data.watch?.players?.[t];if(!p)continue;selectValue(`#watch-engine-${t}`,p.engine);selectValue(`#watch-time-${t}`,p.ms);selectValue(`#watch-cores-${t}`,p.cores);if($(`#watch-engine-${t}`).value==='atlas3')$(`#watch-cores-${t}`).value='1';}
   selectValue('#watch-delay',data.watch?.delay);pool.dispose();pool=createPlayPool(Number($('#cores').value));disposeWatch();clearAnalysis();persist();render();schedule();
@@ -175,7 +177,7 @@ screenCapture=mountScreenCapture({
   onWatchChange:()=>{screenReady=false;stop();clearAnalysis();render();},
   onUncertain:()=>{screenReady=false;stop();clearAnalysis();$('#analysis').textContent='원본 배치 변화 확인 중 · 인식이 안정되면 최신 배치를 분석합니다.';render();},
   onRecovered:()=>{screenReady=true;render();schedule();},
-  onApply:(snapshot,bottom)=>{if(baseState&&records.length){screenSegments.push({baseState:clone(baseState),records:clone(records)});if(screenSegments.length>8)screenSegments.shift();}screenRebased=!!baseState&&(screenRebased||boardKey(state)!==boardKey(snapshot)||state.turn!==snapshot.turn);stop();state=clone(snapshot);baseState=clone(snapshot);observedBottom=bottom;past=[];records=[];$('#mode').value='screen';$('#start-position').value=Number($('#side').value)===bottom?'bottom':'top';clearAnalysis();persist();render();},
+  onApply:(snapshot,bottom)=>{if(baseState&&records.length){screenSegments.push({baseState:clone(baseState),records:clone(records)});if(screenSegments.length>8)screenSegments.shift();}screenRebased=!!baseState&&(screenRebased||boardKey(state)!==boardKey(snapshot)||state.turn!==snapshot.turn);stop();state=clone(snapshot);baseState=clone(snapshot);observedBottom=bottom;past=[];records=[];$('#mode').value='screen';$('#side').value=String(bottom);$('#start-position').value='bottom';clearAnalysis();persist();render();},
   onDirty:()=>{if($('#mode').value==='screen'){stop();clearAnalysis();$('#analysis').textContent='새로 가져온 내용은 확인 후 적용해야 반영됩니다.';render();}}
 });
 window.addEventListener('pagehide',()=>{stop();pool.dispose();disposeWatch();screenCapture?.dispose();});

diff --git a/src/screen-sync.js b/src/screen-sync.js
@@ -21,17 +21,22 @@ export function inferScreenMoves(before,target){
 export class StableScreenBoard{
  constructor(required=3){this.required=required;this.reset();}
  reset(){this.key=null;this.count=0;}
- observe(board){const key=boardKey(board);if(key===this.key)this.count++;else{this.key=key;this.count=1;}return this.count>=this.required;}
+ observe(board,context=''){const key=boardKey(board)+':'+(context??'');if(key===this.key)this.count++;else{this.key=key;this.count=1;}return this.count>=this.required;}
 }
 // Recover only a unique shortest legal history, with hard work limits. A
 // matching final board never licenses inventing one of several histories.
-export function recoverScreenMoves(before,target,{maxPlies=6,maxNodes=12000,maxMs=80}={}){
- try{return inferScreenMoves(before,target);}catch{}
+export function recoverScreenMoves(before,target,{maxPlies=6,maxNodes=12000,maxMs=80,expectedTurn,expectedPlies}={}){
+ const matches=path=>(expectedTurn===undefined||(before.turn+path.length)%2===expectedTurn)&&(expectedPlies===undefined||path.length===expectedPlies);
+ if(expectedPlies!==undefined&&expectedTurn!==undefined&&(before.turn+expectedPlies)%2!==expectedTurn)throw Error('원본 차례와 수 번호가 수 추적 결과와 충돌합니다.');
+ if(expectedPlies===0&&boardKey(before)!==boardKey(target))throw Error('원본 수 번호는 같은데 배치가 바뀌었습니다. 미리보기·애니메이션 또는 판독 오류를 확인하세요.');
+ try{const fast=inferScreenMoves(before,target);if(matches(fast))return fast;}catch{}
+ if(boardKey(before)===boardKey(target)&&(expectedPlies===undefined||expectedPlies===0)&&expectedTurn!==undefined&&expectedTurn!==before.turn)throw Error('원본 차례와 수 추적이 일치하지 않습니다. 현재 화면 재동기화가 필요합니다.');
  const old=new Set(before.walls.map(wallKey)),wanted=new Set(target.walls.map(wallKey));
  if([...old].some(k=>!wanted.has(k)))throw Error('벽 삭제·되돌리기 감지 · 현재 화면 재동기화를 이용하세요.');
  const added=target.walls.filter(w=>!old.has(wallKey(w))),deadline=performance.now()+maxMs;let nodes=0;
  function minimum(s,t){const q=[{...s.p[t],d:0}],seen=new Set();for(const p of q){if(p.x===target.p[t].x&&p.y===target.p[t].y)return Math.ceil(p.d/2);for(const n of neighbors(s,p)){const k=n.y*9+n.x;if(!seen.has(k)){seen.add(k);q.push({...n,d:p.d+1});}}}return 99;}
  for(let depth=3;depth<=maxPlies;depth++){
+  if(expectedPlies!==undefined&&depth!==expectedPlies||expectedTurn!==undefined&&(before.turn+depth)%2!==expectedTurn)continue;
   const answers=[];const memo=new Map();
   function visit(s,path){
    if(++nodes>maxNodes||performance.now()>deadline)throw Error('진행 복원 계산 한도 초과 · 현재 화면 재동기화를 이용하세요.');
@@ -49,10 +54,10 @@ export function recoverScreenMoves(before,target,{maxPlies=6,maxNodes=12000,maxM
  }
  throw Error('6수 이내 진행을 복원하지 못했습니다 · 현재 화면 재동기화를 이용하세요.');
 }
-export function recoverScreenSequence(before,target,frames=[]){
+export function recoverScreenSequence(before,target,frames=[],options={}){
  let state=before;const actions=[];
  try{
-  for(const frame of frames){if(boardKey(state)===boardKey(frame))continue;const step=inferScreenMoves(state,frame);for(const a of step)state=apply(state,a);actions.push(...step);if(boardKey(state)===boardKey(target))return actions;}
+  for(const frame of frames){if(boardKey(state)===boardKey(frame))continue;const step=inferScreenMoves(state,frame);for(const a of step)state=apply(state,a);actions.push(...step);if(boardKey(state)===boardKey(target)&&(options.expectedTurn===undefined||state.turn===options.expectedTurn)&&(options.expectedPlies===undefined||actions.length===options.expectedPlies))return actions;}
  }catch{}
- return recoverScreenMoves(before,target);
+ return recoverScreenMoves(before,target,options);
 }

diff --git a/src/source-context.test.js b/src/source-context.test.js
@@ -1,0 +1,31 @@
+import test from 'node:test';
+import assert from 'node:assert/strict';
+import {readStartingColor} from './source-context.js';
+import {screenFixture} from '../scripts/test-fixtures/screen-board.mjs';
+import {initial,apply} from './engine.js';
+import {StableScreenBoard,recoverScreenMoves,recoverScreenSequence} from './screen-sync.js';
+test('starting-row tint identifies either own color independently of pawn position',()=>{
+ for(const bottom of [0,1])for(const scale of [1,2]){const f=screenFixture({bottom,scale});assert.equal(readStartingColor(f,f.crop,f.gap).bottom,bottom);}
+});
+test('goal-color inference tolerates local occlusion but rejects contradictory rows',()=>{
+ const f=screenFixture();for(let y=488;y<536;y++)for(let x=24;x<130;x++)f.data.set([17,19,15,255],(y*f.width+x)*4);assert.equal(readStartingColor(f,f.crop,f.gap).bottom,0);
+ for(let y=24;y<72;y++)for(let x=24;x<536;x++)f.data.set([30,75,70,255],(y*f.width+x)*4);assert.equal(readStartingColor(f,f.crop,f.gap).bottom,null);
+});
+test('absent goal colors do not silently reuse a previous own side',()=>{
+ const f=screenFixture();f.data.fill(0);assert.equal(readStartingColor(f,f.crop,f.gap).bottom,null);
+});
+test('frame stability includes independently observed turn',()=>{
+ const gate=new StableScreenBoard(3),s=initial();assert.equal(gate.observe(s,0),false);assert.equal(gate.observe(s,0),false);assert.equal(gate.observe(s,1),false);assert.equal(gate.observe(s,1),false);assert.equal(gate.observe(s,1),true);
+});
+test('source turn and move count constrain recovery instead of rewriting the tracked turn',()=>{
+ const s=initial(),step={type:'move',x:4,y:7},target=apply(s,step);
+ assert.deepEqual(recoverScreenMoves(s,target,{expectedTurn:1,expectedPlies:1}),[step]);
+ assert.throws(()=>recoverScreenMoves(s,target,{expectedTurn:0,expectedPlies:1}));
+ assert.throws(()=>recoverScreenSequence(s,s,[],{expectedTurn:1}));
+ assert.throws(()=>recoverScreenSequence(s,target,[target],{expectedTurn:1,expectedPlies:0}));
+});
+test('six-ply recovery accepts matching source count and rejects conflicting counter',()=>{
+ const s=initial(),steps=[{type:'move',x:4,y:7},{type:'move',x:4,y:1},{type:'move',x:4,y:6},{type:'move',x:4,y:2},{type:'move',x:4,y:5},{type:'move',x:4,y:3}],target=steps.reduce(apply,s);
+ assert.deepEqual(recoverScreenMoves(s,target,{expectedTurn:0,expectedPlies:6,maxMs:1000}),steps);
+ assert.throws(()=>recoverScreenMoves(s,target,{expectedTurn:1,expectedPlies:5,maxMs:1000}));
+});

diff --git a/reports/AUTO_SIDE_TURN.md b/reports/AUTO_SIDE_TURN.md
@@ -1,0 +1,58 @@
+# 아래 시작 진영과 현재 차례 자동 판독
+
+2026-10-29. 화면 연동에서 ‘나는 항상 아래에서 출발한다’를 적용했습니다. 아래 출발 줄 색으로 내 진영을 정하고, 원본 차례 문구·활성 카드와 수 추적을 대조합니다. AI 엔진·모델·기본 승격 상태는 변경하지 않았습니다.
+
+## 사용법
+
+1. 앱을 새로고침하고 **화면 연동 · 자동 감시 → 화면 연결**을 사용합니다. 9×9 보드와 오른쪽 플레이어 카드·차례 문구가 포함된 게임 탭/창을 공유하세요.
+2. 자동 격자 아래에 **내 진영: 청록/분홍 · 아래 시작 · 자동**, **내/상대 차례 · 원본 문구/활성 카드 판독**이 표시됩니다. 진영·차례를 직접 선택할 필요가 없습니다.
+3. 말·벽과 결과를 확인해 적용하고 **자동 감시 시작**을 누릅니다. 원본 차례·수 번호와 실제 합법 진행이 일치할 때만 반영하며 내 차례에 추천합니다.
+4. 차례 문구·카드를 읽지 못하면 적용·추천을 보류합니다. 확대·공유 범위를 확인하거나 **원본 차례 표시 자동 판독**을 끄고 **판독 실패 시 진영·차례 수동 보정**을 열어 직접 선택하세요. 수동 모드임을 표시합니다.
+5. 새 게임에서 아래 출발 줄 색이 바뀌면 기존 대국 추적을 보류합니다. **현재 화면 재동기화**에서 새 결과를 적용하면 내 색과 왼쪽 아래 시작 시점이 함께 바뀝니다.
+
+화면 모드의 메인 ‘내 진영’과 ‘내 시작 위치’는 판독 결과를 따르도록 잠급니다. 다른 대전·직접 조작·관전 모드에서는 기존 설정을 사용할 수 있습니다. 저장한 화면 배치를 다시 열 때도 `sourceBottom`에 맞춰 내 진영과 아래 시작을 복원합니다. 말·벽의 실제 색과 소유자를 뒤집지 않습니다.
+
+## 판독 근거
+
+- 위·아래 출발 줄의 칸 모서리 36개씩을 검사합니다. 아래 색을 내 진영으로 쓰되 위줄이 반대 색인지 확인합니다. 말이 현재 어디에 있는지는 진영 판정 근거로 쓰지 않습니다.
+- 원본 보드 오른쪽 영역의 `YOUR TURN`, `OPPONENT’S TURN` 문구를 로컬 글자 형태 템플릿으로 판독합니다. 공백과 작은 아포스트로피의 영향을 줄이고 영문 대문자 형태를 비교합니다.
+- 문구가 작거나 보이지 않으면 **닫힌 활성 카드 테두리와 카드 안의 YOU/OPPONENT 표기**를 함께 검사합니다. 카드 위치나 시계 색만으로 임의 판정하지 않습니다. 문구와 카드가 서로 다른 차례를 가리키면 보류합니다.
+- `MOVES` 헤더 옆의 1~3자리 수 번호를 확신할 수 있을 때 읽습니다. 직전 번호와의 차이가 합법 진행 길이·차례 교대와 일치하는지 검사합니다. 숫자가 불명확하면 강제로 채우지 않습니다. 선공 색의 가정으로 현재 차례를 정하지 않습니다.
+- 배치와 관측 차례가 3회 연속 일치해야 확정합니다. 기존 차례를 원본 문구 하나로 덮어쓰지 않고, 실제 가능한 수와 함께 검증합니다. 충돌·미판독 때 이전 추천을 취소합니다.
+- 최초 차례 판독 실패도 진단에 남깁니다. **인식 진단 저장**에는 문구·카드 근거, 글자 행 수, 테두리 검사 결과, MOVES 후보와 숫자 점수가 들어갑니다. 영상·픽셀 이미지는 저장하거나 업로드하지 않습니다.
+
+## 사용자가 보고한 실제 판독 실패 대응
+
+작업 도중 사용자가 공유한 화면에서는 **진영 자동 판독은 성공했고 차례 판독은 실패**했습니다. 카드와 YOUR TURN 문구가 화면에 보였으므로 ‘공유가 부족하다’고 단정할 수 없었습니다.
+
+초기 구현은 직선·밝은 테두리 합성 화면에 치우쳐 있었습니다. 실제처럼 둥글고 얇은 테두리는 대각선 픽셀 연결이나 약한 색 때문에 놓칠 수 있어 다음을 보강했습니다.
+
+- 대각선과 작은 픽셀 단절을 포함한 카드 테두리 연결 검사.
+- 말의 밝은 색상 검사와 별도로 희미한 청록·분홍 테두리 범위 지원.
+- 7~8px를 포함한 글자 템플릿과 여러 로컬 글꼴, 붙은 카드 제목의 단어 단위 검사.
+- ‘카드 포함 공유·확대·수동 보정’ 안내와 최초 판독 실패 진단.
+
+실제 첨부 원본 프레임의 픽셀을 다시 실행한 검증은 하지 못했습니다. 사용자 브라우저·실제 게임에는 접근하지 않았습니다. 따라서 아래 합성 검증이 실제 환경에서의 성공을 보장하는 것은 아니며, 동일 화면은 새로고침·재연결 후 다시 확인해야 합니다.
+
+## 검증
+
+- 전체 Node 테스트 **130개 통과**, 웹 빌드 통과.
+- 청록·분홍 아래줄, 말 위치와 무관한 진영 판정, 가림·반대 줄 불일치, 원본 차례를 포함한 안정화, 수 번호·차례와 6수 복원 제약을 검사했습니다.
+- 별도 headless Chrome **36개 시나리오 통과**, 처리되지 않은 페이지 오류 0개. 합성 화면의 양 진영·양 차례·여러 글꼴, 작은/큰 문구, 문구 없이 희미한 1px 둥근 카드와 8px 제목만 있는 경우를 검사했습니다.
+- 수동 선택 없이 분홍 아래 진영과 차례를 읽어 적용하고, 내 수→상대 수의 픽셀 영상으로 원본 차례·MOVES·기보·추천을 동기화했습니다. 충돌한 차례·활성 카드와 새 게임 색 변경에서는 잘못 반영하지 않았습니다.
+- 최초 미판독 시 적용 차단·진단 기록·명시적 수동 보정도 확인했습니다. 공유 영상은 자체 합성 MediaStream이고 QA 분석 엔진은 Atlas 3입니다.
+
+[검증 기록](screen-import/browser-qa.json), [분홍 아래 시작 자동 차례·추천](screen-import/automatic-side-turn.png).
+
+```powershell
+npm test
+npm run screen:qa
+```
+
+## 남은 추천 우선순위
+
+1. **실제 실패 화면 회귀 검증**: 진단 JSON으로 작은 글씨·카드 위치·배율별 실패를 구분하고 실제 프레임 정확도·지연을 측정합니다.
+2. **원본 기보 착수 표기·잔여 벽 숫자 판독**: MOVES 수 번호 외의 독립 근거를 늘려 벽 미리보기·누락 진행을 검증합니다.
+3. **6수 초과·되돌리기·새 게임 복구**: 기보와 수 번호로 현재 기준 배치까지 재연결합니다.
+4. **판독 영역·언어·테마 확대**: 카드 위치가 다른 화면과 영문 외 표시를 지원하고 시계 변화도 보조 근거로 검증합니다.
+5. **처리 비용 최적화**: 템플릿·격자·메타데이터 판독을 분리해 프레임 처리 지연을 줄입니다.

diff --git a/README.md b/README.md
@@ -4,6 +4,8 @@
 
 **모드 → 화면 연동 · 자동 감시**에서 게임 화면 연결 → **보드·격자 자동 인식** → 최초 배치·차례 확인 → 적용 → **자동 감시 시작**을 누르세요. 보드 위치와 가로·세로 간격을 자동 계산하고 감시 중 이동·크기 변화도 재탐지합니다. 여러 보드가 있으면 후보를 선택하고, 실패했을 때만 드래그로 보정합니다. 합법 수 추적과 내 차례 추천을 지원하며 이미지 파일은 수동 가져오기용입니다. [자동 격자 사용법·검증·남은 우선순위](reports/AUTO_GRID.md)를 참고하세요.
 
+화면 연동에서는 **아래 출발 줄의 색이 내 진영**이며 왼쪽도 아래 시작으로 자동 맞춥니다. 원본의 영문 차례 문구·활성 카드와 `MOVES` 수 번호를 읽어 수 추적과 대조합니다. 판독 실패·충돌은 반영을 보류하고 수동 보정을 제공합니다. [진영·차례 자동 판독과 실제 화면 실패 대응](reports/AUTO_SIDE_TURN.md).
+
 빠른 진행은 최대 6수의 유일한 최단 합법 진행과 최근 중간 배치로 따라잡습니다. 진행이 모호하면 **현재 화면 재동기화**에서 배치·차례를 확인하세요. **인식 진단 저장**으로 최근 오류와 배치를 내보낼 수 있습니다. 연결된 벽 중복 검출과 확인된 격자 유지도 보강했습니다. [빠른 진행 복구·제한·검증](reports/SCREEN_RECOVERY.md).
 
 pressure 후보를 동결하고 과거 벽 배치를 제외한 12개 새 국면에서 깊이 3·4/일부 5, 4만·5만·6만 노드, 0.5초·4코어를 검증했습니다. 고정 조건의 선택 개선은 없었고 사전 연구 기준도 미달해 기본 원본 5.3을 유지합니다. 새로운 일반/미로 실패는 내부/루트 축소로 각각 분리했습니다. [독립 검증·표본 한계·새 회귀 사례·다음 우선순위](reports/PREVIEW_INDEPENDENT.md)를 참고하세요.

diff --git a/reports/SCREEN_RECOVERY.md b/reports/SCREEN_RECOVERY.md
@@ -1,5 +1,7 @@
 # 빠른 진행 복원과 복잡한 벽 배치 추적
 
+**업데이트:** 아래 출발 줄 색에 따른 내 진영·시점 자동 설정, 원본 차례 문구·활성 카드와 MOVES 수 번호 판독을 추가했습니다. 최신 사용법과 검증·남은 우선순위는 [진영·차례 자동 판독](AUTO_SIDE_TURN.md)을 참고하세요.
+
 2026-10-29. 빠르게 여러 수가 진행된 상황과 벽이 많은 배치에서 발생하는 오류를 분리해 처리하도록 변경했습니다. 엔진·모델·승격 상태는 변경하지 않았습니다.
 
 ## 사용법
